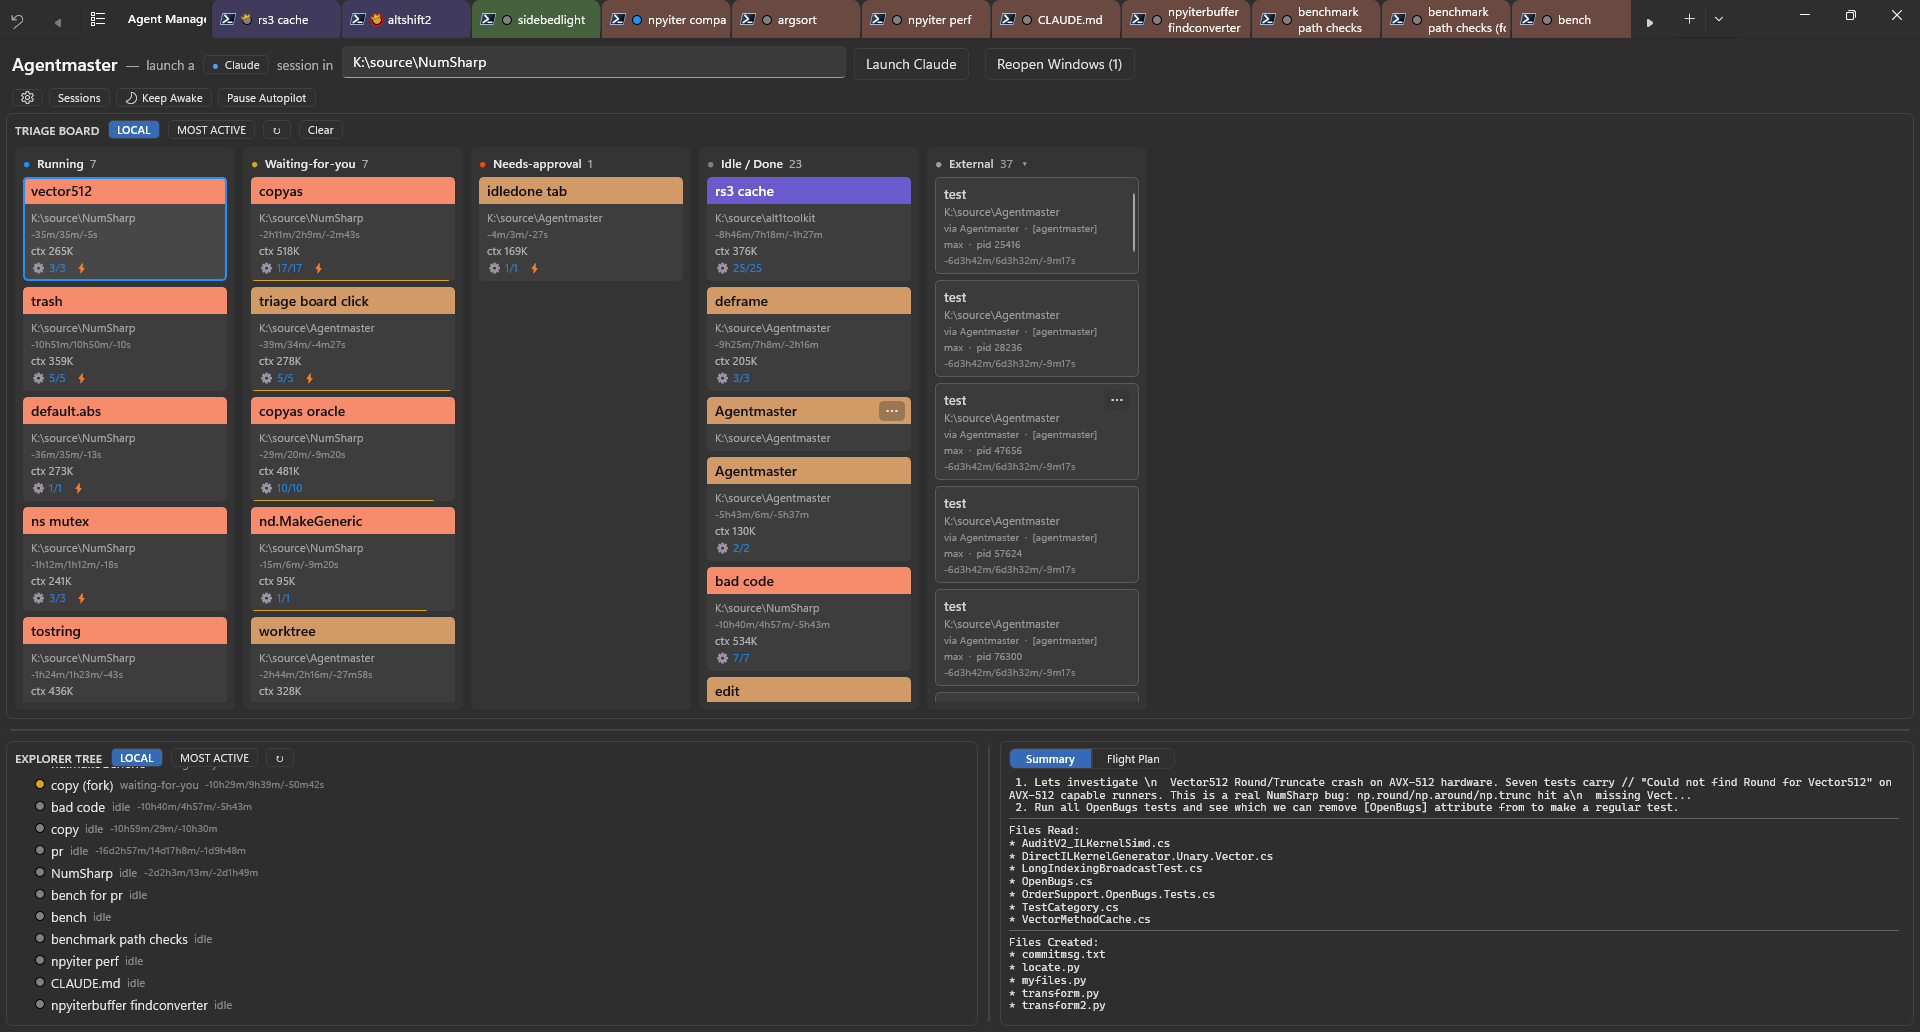
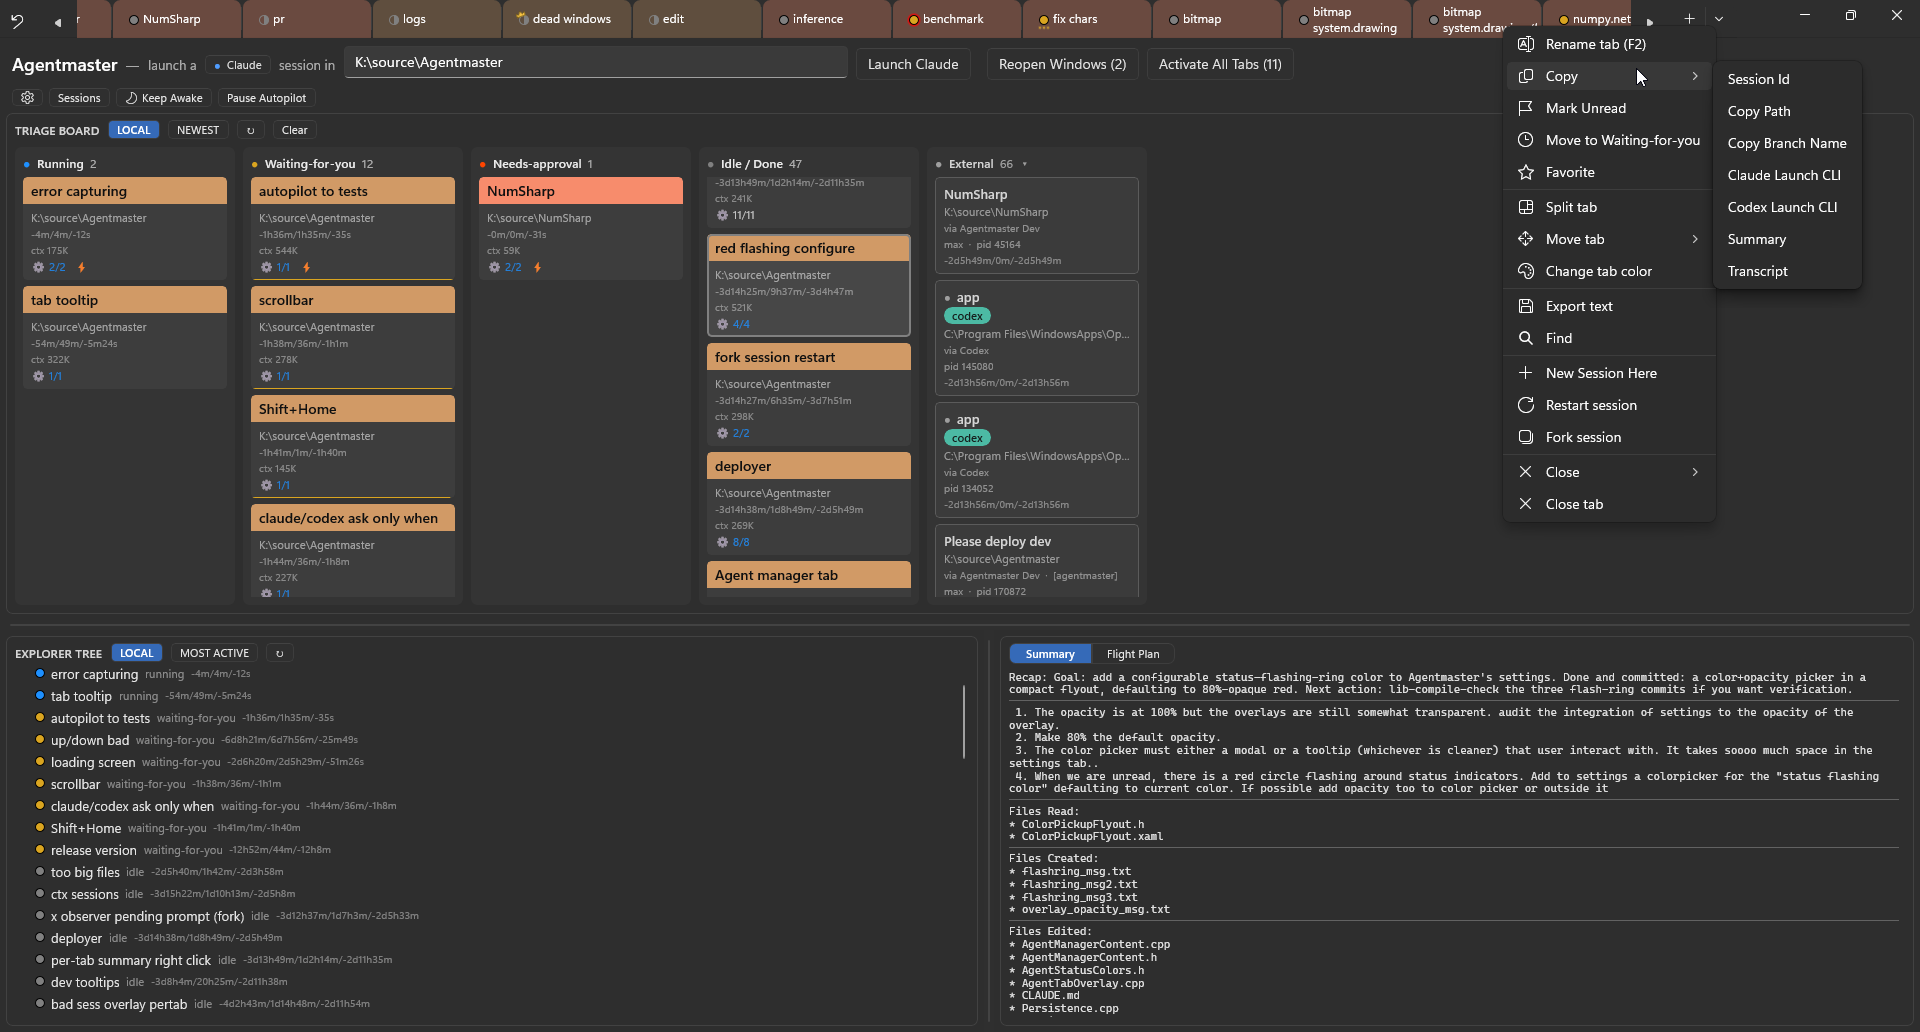
docs(readme): replace hero with full-window board + tab Copy-menu shot
Overwrite doc/agentmaster/img/agent-manager.png with a newer full-window
screenshot showing the whole Manager board (Triage Board, Explorer Tree, and
the per-tab summary panel) together with a managed tab's right-click menu and
the Copy submenu open (Session Id, Path, Branch, Claude/Codex launch CLI,
Summary, Transcript). The new shot also reflects the current menu (e.g.
'Move to Waiting-for-you').

Reusing the existing filename keeps the README badge and the
raw.githubusercontent link working unchanged; only the hero alt text is
updated to describe the added summary panel and right-click/Copy menu.

diff --git a/README.md b/README.md
@@ -7,7 +7,7 @@ _By developers, for developers - Never lose a session again - feel like Windows 
 
 Each session is a real `claude.exe` on a **ConPTY** connection: a full-fidelity terminal with a shared stdin (you and the orchestrator coexist), output tapped for the UI, and semantic state from **Claude Code hooks** and an **out-of-band observer** — never screen-scraping.
 
-[![The Agentmaster Manager tab — the Triage Board (sessions as cards in state columns: Running · Waiting-for-you · Needs-approval · Error · Idle/Done · External), the Explorer Tree (working directories → their sessions), and the Auto Testing (per-session prompt queue)](doc/agentmaster/img/agent-manager.png)](https://raw.githubusercontent.com/Nucs/Agentmaster/agentmaster/doc/agentmaster/img/agent-manager.png)
+[![The Agentmaster Manager tab — the Triage Board (sessions as cards in state columns: Running · Waiting-for-you · Needs-approval · Error · Idle/Done · External), the Explorer Tree (working directories → their sessions), and the per-tab summary panel, with a managed tab's right-click menu open showing the Copy submenu (Session Id · Path · Branch · Claude/Codex launch CLI · Summary · Transcript)](doc/agentmaster/img/agent-manager.png)](https://raw.githubusercontent.com/Nucs/Agentmaster/agentmaster/doc/agentmaster/img/agent-manager.png)
 
 ## ✨ What it does for you
 
